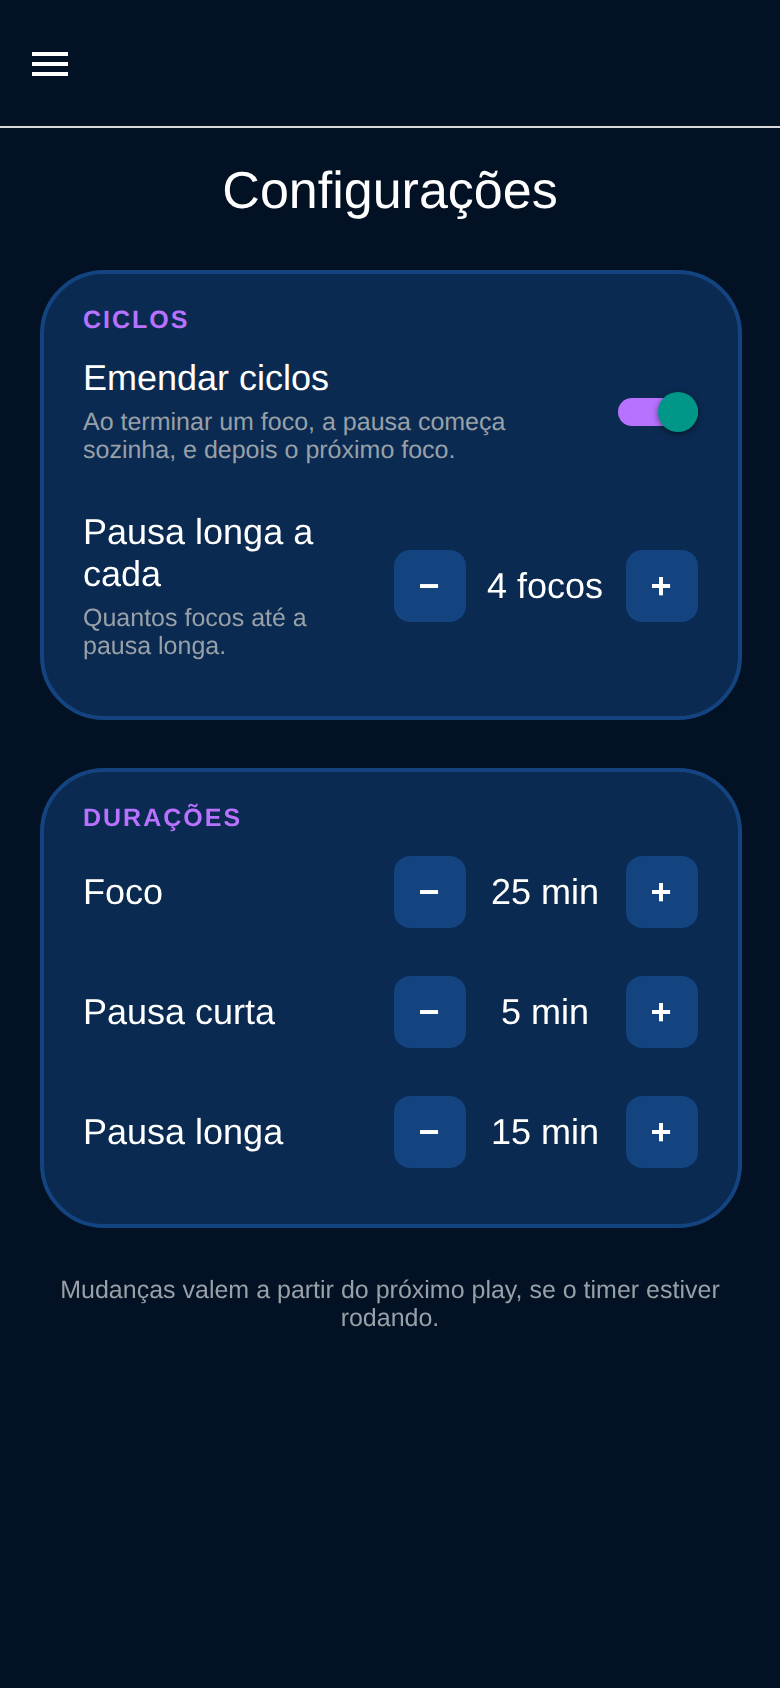
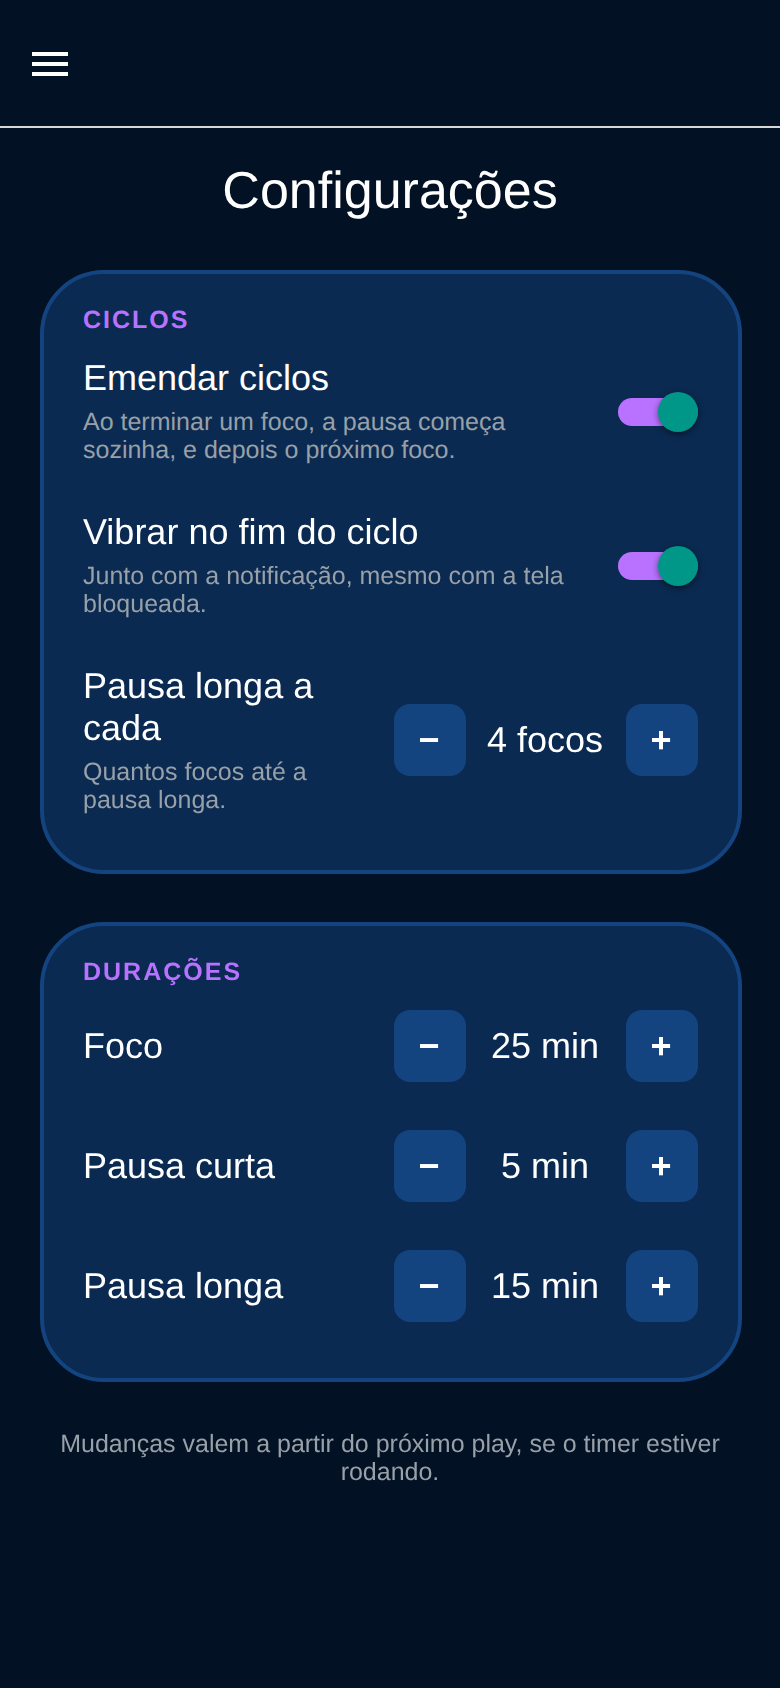
Document cycle vibration in README, CLAUDE.md and the skill

Changed region(s): [[0.0308, 0.3081, 0.9538, 0.8934], [0.8, 0.3081, 0.8923, 0.3697]]

diff --git a/README.md b/README.md
@@ -20,7 +20,7 @@ Bloqueie a tela, guarde o celular e volte a focar. Quando o tempo acabar, o Foku
 ![Web](https://img.shields.io/badge/Web-✓-4285F4?style=flat-square&logo=googlechrome&logoColor=white)
 ![ESLint](https://img.shields.io/badge/lint-0_avisos-00F4BF?style=flat-square&logo=eslint&logoColor=white)
 ![Prettier](https://img.shields.io/badge/code_style-prettier-F7B93E?style=flat-square&logo=prettier&logoColor=black)
-![Jest](https://img.shields.io/badge/testes-16_passando-C21325?style=flat-square&logo=jest&logoColor=white)
+![Jest](https://img.shields.io/badge/testes-20_passando-C21325?style=flat-square&logo=jest&logoColor=white)
 [![CI](https://github.com/ramongime/Fokus/actions/workflows/ci.yml/badge.svg)](https://github.com/ramongime/Fokus/actions/workflows/ci.yml)
 
 [Funcionalidades](#-funcionalidades) •
@@ -42,8 +42,9 @@ Bloqueie a tela, guarde o celular e volte a focar. Quando o tempo acabar, o Foku
 | 🔁 **Ciclos emendados** | Acabou o foco, a pausa começa sozinha; acabou a pausa, volta o foco. Dá para desligar nas configurações |
 | 🍅 **Contador do dia** | Bolinhas mostram quanto falta para a pausa longa, que vem a cada 4 focos (configurável) |
 | 🎯 **Foco em uma tarefa** | Escolha no que está trabalhando; cada foco concluído soma um 🍅 na tarefa |
-| ⚙ **Configurações** | Durações de cada modo, intervalo da pausa longa e o liga/desliga dos ciclos |
+| ⚙ **Configurações** | Durações de cada modo, intervalo da pausa longa, emendar ciclos e vibração |
 | 🔒 **Funciona com a tela bloqueada** | O tempo é calculado a partir do horário de término, então nada se perde quando o celular dorme |
+| 📳 **Vibração no fim do ciclo** | O celular vibra junto com a notificação, mesmo com a tela bloqueada. Dá para desligar |
 | 🔔 **Notificação no fim do ciclo** | Agendada direto no sistema operacional: chega mesmo com o app em segundo plano ou fechado, avisando qual ciclo começou |
 | 💾 **Retoma de onde parou** | Fechou o app no meio do foco? Ao abrir, o timer continua certinho |
 | ✅ **Lista de tarefas completa** | Criar, editar, concluir e excluir (com confirmação), tudo salvo no aparelho |
@@ -101,7 +102,8 @@ sequenceDiagram
 2. **Recalcula ao voltar.** Um listener de `AppState` atualiza o tempo assim que o app fica ativo.
 3. **Quem avisa é o sistema.** Uma notificação local (`expo-notifications`) é agendada no iOS/Android
    para o fim de cada ciclo planejado, e ele entrega mesmo com o app suspenso. Pausar ou trocar de
-   modo cancela os avisos.
+   modo cancela os avisos. No Android, a vibração vem do canal da notificação, então também
+   funciona com a tela bloqueada.
 
 A lógica pura (planejar ciclos, decidir a próxima pausa, contar focos do dia) fica em
 [`timerLogic.js`](components/context/timerLogic.js), coberta por testes. O estado mora em
@@ -233,7 +235,7 @@ Quer usar esse mesmo padrão em outro app? Tem uma skill pronta em
 - [x] Testes automatizados com `jest-expo`
 - [x] Confirmação antes de excluir e acessibilidade
 - [x] CI no GitHub Actions
-- [ ] Vibrar no fim de cada ciclo
+- [x] Vibrar no fim de cada ciclo
 - [ ] Histórico da semana com gráfico
 - [ ] Sons diferentes para foco e pausa
 - [ ] Widget na tela inicial do celular

diff --git a/.claude/skills/expo-app-pattern/SKILL.md b/.claude/skills/expo-app-pattern/SKILL.md
@@ -82,7 +82,10 @@ Documentos/              # tutoriais de build e anotações do projeto
    restante é `endTime - Date.now()`, recalculado num `setInterval` e ao voltar para
    primeiro plano (`AppState`). Ao iniciar, agende uma notificação local com
    `expo-notifications` (trigger `DATE`) para `endTime`; cancele ao pausar ou trocar de
-   modo. Assim o timer sobrevive à tela bloqueada e ao app fechado. Referência:
+   modo. Assim o timer sobrevive à tela bloqueada e ao app fechado. Para vibrar, use o
+   canal da notificação no Android (`enableVibrate` + `vibrationPattern`, um canal por
+   variação, já que canais não mudam depois de criados) e `Vibration` do React Native só
+   como reserva com o app aberto. Referência:
    `TimerProvider.jsx` e `timerNotifications.js` do Fokus.
 10. **Formulários** usam `KeyboardAvoidingView` (`padding` no iOS, `height` no Android) +
     `TouchableWithoutFeedback onPress={Keyboard.dismiss}`.

diff --git a/CLAUDE.md b/CLAUDE.md
@@ -75,6 +75,10 @@ docs/                      # banner e screenshots usados no README
   mudar a configuração reflete na hora quando o timer não foi iniciado.
 - **Notificação**: uma por ciclo planejado, agendada no sistema operacional. Pausar ou trocar de
   modo cancela todas. A permissão é pedida no primeiro play.
+- **Vibração**: com a tela bloqueada o JS não roda, então quem vibra é a notificação. No
+  Android há dois canais (`cycles`, com vibração, e `cycles-quiet`), porque um canal não muda
+  depois de criado; o canal antigo `timer` é apagado. Com o app aberto e sem notificações
+  agendadas (permissão negada ou web), o app vibra com `Vibration` (`shouldVibrateInApp`).
 - **Navegação**: Drawer do expo-router. Telas de adicionar/editar ficam escondidas do menu
   (`drawerItemStyle: { display: "none" }`) e têm `BackButtonDrawer` no header.
 
